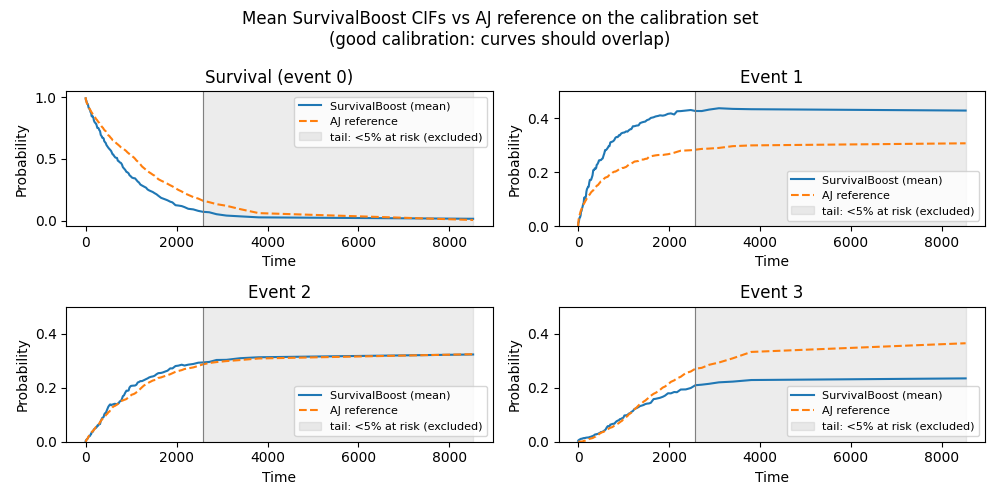
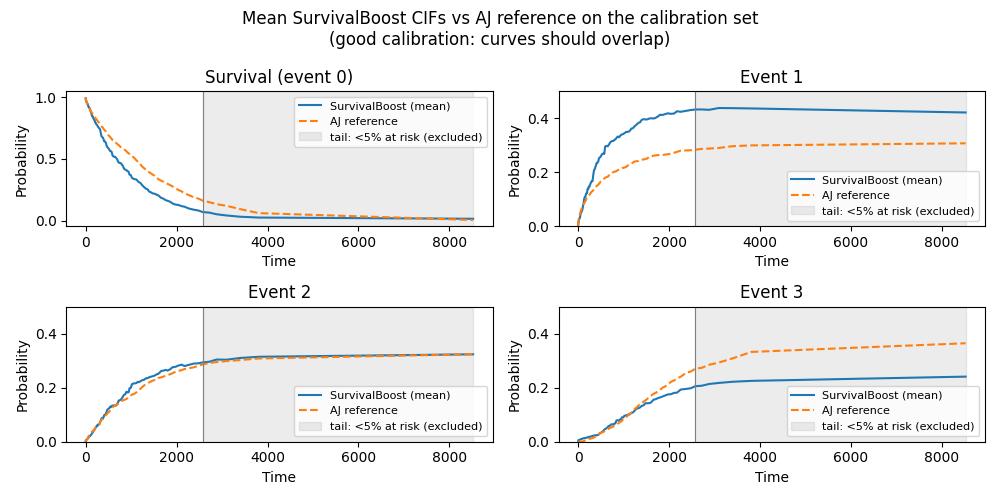
[ci skip] Merge pull request #97 from soda-inria/adding_python_versions
adding new python versions to hazardous 8aa9eae0a93d0922e3c9640430c7ad873e020563

diff --git a/auto_examples/plot_02_marginal_cumulative_incidence_estimation.html b/auto_examples/plot_02_marginal_cumulative_incidence_estimation.html
@@ -607,15 +607,15 @@ theoretical CIFs:</p>
 <span class="p">)</span>
 </pre></div>
 </div>
-<img src="../_images/sphx_glr_plot_02_marginal_cumulative_incidence_estimation_001.png" srcset="../_images/sphx_glr_plot_02_marginal_cumulative_incidence_estimation_001.png" alt="Cause-specific cumulative incidence functions (0.0% censoring), Event 1, Event 2, Event 3" class = "sphx-glr-single-img"/><div class="sphx-glr-script-out highlight-none notranslate"><div class="highlight"><pre><span></span>Integrated theoretical any event survival curve in 0.587 s
-SurvivalBoost fit: 4.544 s
-SurvivalBoost prediction: 3.397 s
-Integrated theoretical cumulative incidence curve for event 1 in 3.455 s
-Aalen-Johansen for event 1 fit in 3.893 s
-Integrated theoretical cumulative incidence curve for event 2 in 3.987 s
-Aalen-Johansen for event 2 fit in 3.933 s
-Integrated theoretical cumulative incidence curve for event 3 in 4.012 s
-Aalen-Johansen for event 3 fit in 3.884 s
+<img src="../_images/sphx_glr_plot_02_marginal_cumulative_incidence_estimation_001.png" srcset="../_images/sphx_glr_plot_02_marginal_cumulative_incidence_estimation_001.png" alt="Cause-specific cumulative incidence functions (0.0% censoring), Event 1, Event 2, Event 3" class = "sphx-glr-single-img"/><div class="sphx-glr-script-out highlight-none notranslate"><div class="highlight"><pre><span></span>Integrated theoretical any event survival curve in 0.597 s
+SurvivalBoost fit: 4.452 s
+SurvivalBoost prediction: 3.420 s
+Integrated theoretical cumulative incidence curve for event 1 in 3.478 s
+Aalen-Johansen for event 1 fit in 3.858 s
+Integrated theoretical cumulative incidence curve for event 2 in 3.951 s
+Aalen-Johansen for event 2 fit in 3.893 s
+Integrated theoretical cumulative incidence curve for event 3 in 3.971 s
+Aalen-Johansen for event 3 fit in 3.846 s
 </pre></div>
 </div>
 </section>
@@ -638,15 +638,15 @@ of censoring.</p>
 <span class="n">plot_cumulative_incidence_functions</span><span class="p">(</span><a href="../generated/hazardous.SurvivalBoost.html#hazardous.SurvivalBoost" title="hazardous.SurvivalBoost" class="sphx-glr-backref-module-hazardous sphx-glr-backref-type-py-class sphx-glr-backref-instance"><span class="n">survival_boost</span></a><span class="o">=</span><a href="../generated/hazardous.SurvivalBoost.html#hazardous.SurvivalBoost" title="hazardous.SurvivalBoost" class="sphx-glr-backref-module-hazardous sphx-glr-backref-type-py-class sphx-glr-backref-instance"><span class="n">survival_boost</span></a><span class="p">,</span> <span class="n">aj</span><span class="o">=</span><span class="n">aj</span><span class="p">,</span> <span class="n">y</span><span class="o">=</span><span class="n">y_censored</span><span class="p">)</span>
 </pre></div>
 </div>
-<img src="../_images/sphx_glr_plot_02_marginal_cumulative_incidence_estimation_002.png" srcset="../_images/sphx_glr_plot_02_marginal_cumulative_incidence_estimation_002.png" alt="Cause-specific cumulative incidence functions (40.4% censoring), Event 1, Event 2, Event 3" class = "sphx-glr-single-img"/><div class="sphx-glr-script-out highlight-none notranslate"><div class="highlight"><pre><span></span>Integrated theoretical any event survival curve in 0.532 s
-SurvivalBoost fit: 4.402 s
-SurvivalBoost prediction: 3.403 s
-Integrated theoretical cumulative incidence curve for event 1 in 3.461 s
-Aalen-Johansen for event 1 fit in 3.879 s
-Integrated theoretical cumulative incidence curve for event 2 in 3.970 s
-Aalen-Johansen for event 2 fit in 3.841 s
-Integrated theoretical cumulative incidence curve for event 3 in 3.918 s
-Aalen-Johansen for event 3 fit in 3.847 s
+<img src="../_images/sphx_glr_plot_02_marginal_cumulative_incidence_estimation_002.png" srcset="../_images/sphx_glr_plot_02_marginal_cumulative_incidence_estimation_002.png" alt="Cause-specific cumulative incidence functions (40.4% censoring), Event 1, Event 2, Event 3" class = "sphx-glr-single-img"/><div class="sphx-glr-script-out highlight-none notranslate"><div class="highlight"><pre><span></span>Integrated theoretical any event survival curve in 0.538 s
+SurvivalBoost fit: 4.559 s
+SurvivalBoost prediction: 3.406 s
+Integrated theoretical cumulative incidence curve for event 1 in 3.465 s
+Aalen-Johansen for event 1 fit in 3.886 s
+Integrated theoretical cumulative incidence curve for event 2 in 3.976 s
+Aalen-Johansen for event 2 fit in 3.834 s
+Integrated theoretical cumulative incidence curve for event 3 in 3.911 s
+Aalen-Johansen for event 3 fit in 3.832 s
 </pre></div>
 </div>
 <p>Note that the Aalen-Johansen estimator is unbiased and empirically recovers
@@ -661,7 +661,7 @@ introducing some bias). This is left as future work.</p>
 <p>Alternatively, we could try to enable a monotonicity constraint at training
 time, however, in practice this often causes a sever over-estimation bias for
 the large time horizons:</p>
-<p class="sphx-glr-timing"><strong>Total running time of the script:</strong> (0 minutes 40.896 seconds)</p>
+<p class="sphx-glr-timing"><strong>Total running time of the script:</strong> (0 minutes 40.866 seconds)</p>
 <div class="sphx-glr-footer sphx-glr-footer-example docutils container" id="sphx-glr-download-auto-examples-plot-02-marginal-cumulative-incidence-estimation-py">
 <div class="sphx-glr-download sphx-glr-download-jupyter docutils container">
 <p><a class="reference download internal" download="" href="../_downloads/8da6be5df74b4f584c69dbcd5de4f948/plot_02_marginal_cumulative_incidence_estimation.ipynb"><code class="xref download docutils literal notranslate"><span class="pre">Download</span> <span class="pre">Jupyter</span> <span class="pre">notebook:</span> <span class="pre">plot_02_marginal_cumulative_incidence_estimation.ipynb</span></code></a></p>

diff --git a/auto_examples/plot_04_calibration_aj.html b/auto_examples/plot_04_calibration_aj.html
@@ -669,8 +669,8 @@ does not hide it.</p>
 <span class="nb">print</span><span class="p">(</span><span class="sa">f</span><span class="s2">&quot;[aj_calibration] overall score (sum):  </span><span class="si">{</span><span class="n">score_sum</span><span class="si">:</span><span class="s2">.6f</span><span class="si">}</span><span class="s2">&quot;</span><span class="p">)</span>
 </pre></div>
 </div>
-<div class="sphx-glr-script-out highlight-none notranslate"><div class="highlight"><pre><span></span>[aj_calibration] overall score (mean): 0.007924
-[aj_calibration] overall score (sum):  0.031696
+<div class="sphx-glr-script-out highlight-none notranslate"><div class="highlight"><pre><span></span>[aj_calibration] overall score (mean): 0.008004
+[aj_calibration] overall score (sum):  0.032016
 </pre></div>
 </div>
 <p>2 — Per-event scores</p>
@@ -714,23 +714,23 @@ does not hide it.</p>
 </pre></div>
 </div>
 <div class="sphx-glr-script-out highlight-none notranslate"><div class="highlight"><pre><span></span>[aj_calibration_per_event] scores (truncated at 5% at risk vs full grid):
-  Event 0: 0.015210 (full grid: 0.005634)
-  Event 1: 0.015277 (full grid: 0.016545)
-  Event 2: 0.000307 (full grid: 0.000104)
-  Event 3: 0.000825 (full grid: 0.008877)
+  Event 0: 0.015251 (full grid: 0.005702)
+  Event 1: 0.015591 (full grid: 0.016462)
+  Event 2: 0.000320 (full grid: 0.000115)
+  Event 3: 0.000855 (full grid: 0.008653)
 
-[aj_calibration_per_event] event_of_interest=1: 0.015354
+[aj_calibration_per_event] event_of_interest=1: 0.015591
 
 [aj_calibration_at_t] pointwise δ_k at t=698.29:
-  Event 0: 0.1143
-  Event 1: 0.1072
-  Event 2: 0.0008
-  Event 3: 0.0066
+  Event 0: 0.1233
+  Event 1: 0.1161
+  Event 2: 0.0006
+  Event 3: 0.0070
 [aj_calibration_at_t] same values via full-time array indexing:
-  Event 0 at t=698.29: 0.1143
-  Event 1 at t=698.29: 0.1072
-  Event 2 at t=698.29: 0.0008
-  Event 3 at t=698.29: 0.0066
+  Event 0 at t=698.29: 0.1233
+  Event 1 at t=698.29: 0.1161
+  Event 2 at t=698.29: 0.0006
+  Event 3 at t=698.29: 0.0070
 </pre></div>
 </div>
 </section>
@@ -778,7 +778,7 @@ calibration problem that truncation does not remove.</p>
 <span class="n">plt</span><span class="o">.</span><span class="n">show</span><span class="p">()</span>
 </pre></div>
 </div>
-<img src="../_images/sphx_glr_plot_04_calibration_aj_004.png" srcset="../_images/sphx_glr_plot_04_calibration_aj_004.png" alt="Pointwise AJ calibration error AJ_k(t) — SurvivalBoost, Survival (event 0), Event 1, Event 2, Event 3" class = "sphx-glr-single-img"/><p class="sphx-glr-timing"><strong>Total running time of the script:</strong> (0 minutes 14.454 seconds)</p>
+<img src="../_images/sphx_glr_plot_04_calibration_aj_004.png" srcset="../_images/sphx_glr_plot_04_calibration_aj_004.png" alt="Pointwise AJ calibration error AJ_k(t) — SurvivalBoost, Survival (event 0), Event 1, Event 2, Event 3" class = "sphx-glr-single-img"/><p class="sphx-glr-timing"><strong>Total running time of the script:</strong> (0 minutes 14.477 seconds)</p>
 <div class="sphx-glr-footer sphx-glr-footer-example docutils container" id="sphx-glr-download-auto-examples-plot-04-calibration-aj-py">
 <div class="sphx-glr-download sphx-glr-download-jupyter docutils container">
 <p><a class="reference download internal" download="" href="../_downloads/69433fb2217b8212dae5c7779418333e/plot_04_calibration_aj.ipynb"><code class="xref download docutils literal notranslate"><span class="pre">Download</span> <span class="pre">Jupyter</span> <span class="pre">notebook:</span> <span class="pre">plot_04_calibration_aj.ipynb</span></code></a></p>

diff --git a/auto_examples/plot_01_survival_analysis.html b/auto_examples/plot_01_survival_analysis.html
@@ -1505,7 +1505,7 @@ doesn’t depend on the patient features.</p>
 <div class="sphx-glr-script-out highlight-none notranslate"><div class="highlight"><pre><span></span>Concordance index at quantiles [0.25, 0.5, 0.75] for SurvivalBoost: [0.732 0.713 0.667]
 </pre></div>
 </div>
-<p class="sphx-glr-timing"><strong>Total running time of the script:</strong> (0 minutes 10.443 seconds)</p>
+<p class="sphx-glr-timing"><strong>Total running time of the script:</strong> (0 minutes 10.415 seconds)</p>
 <div class="sphx-glr-footer sphx-glr-footer-example docutils container" id="sphx-glr-download-auto-examples-plot-01-survival-analysis-py">
 <div class="sphx-glr-download sphx-glr-download-jupyter docutils container">
 <p><a class="reference download internal" download="" href="../_downloads/a6916f06450964ef8d10eb5f311100d1/plot_01_survival_analysis.ipynb"><code class="xref download docutils literal notranslate"><span class="pre">Download</span> <span class="pre">Jupyter</span> <span class="pre">notebook:</span> <span class="pre">plot_01_survival_analysis.ipynb</span></code></a></p>

diff --git a/auto_examples/plot_03_competing_risks.html b/auto_examples/plot_03_competing_risks.html
@@ -685,7 +685,7 @@ the accuracy-over-time figure for the Aalen-Johansen model.</p>
 <span class="n">plot_event_in_time</span><span class="p">(</span><span class="n">y_pred_class_aj</span><span class="p">,</span> <span class="n">title</span><span class="o">=</span><span class="s2">&quot;Aalen-Johansen&quot;</span><span class="p">)</span>
 </pre></div>
 </div>
-<img src="../_images/sphx_glr_plot_03_competing_risks_005.png" srcset="../_images/sphx_glr_plot_03_competing_risks_005.png" alt="Aalen-Johansen" class = "sphx-glr-single-img"/><p class="sphx-glr-timing"><strong>Total running time of the script:</strong> (0 minutes 33.516 seconds)</p>
+<img src="../_images/sphx_glr_plot_03_competing_risks_005.png" srcset="../_images/sphx_glr_plot_03_competing_risks_005.png" alt="Aalen-Johansen" class = "sphx-glr-single-img"/><p class="sphx-glr-timing"><strong>Total running time of the script:</strong> (0 minutes 33.472 seconds)</p>
 <div class="sphx-glr-footer sphx-glr-footer-example docutils container" id="sphx-glr-download-auto-examples-plot-03-competing-risks-py">
 <div class="sphx-glr-download sphx-glr-download-jupyter docutils container">
 <p><a class="reference download internal" download="" href="../_downloads/2bac69c23aafe114787596f06d48dacd/plot_03_competing_risks.ipynb"><code class="xref download docutils literal notranslate"><span class="pre">Download</span> <span class="pre">Jupyter</span> <span class="pre">notebook:</span> <span class="pre">plot_03_competing_risks.ipynb</span></code></a></p>